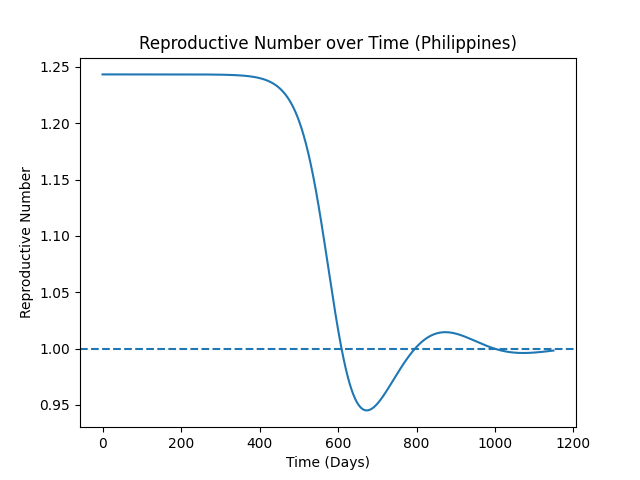
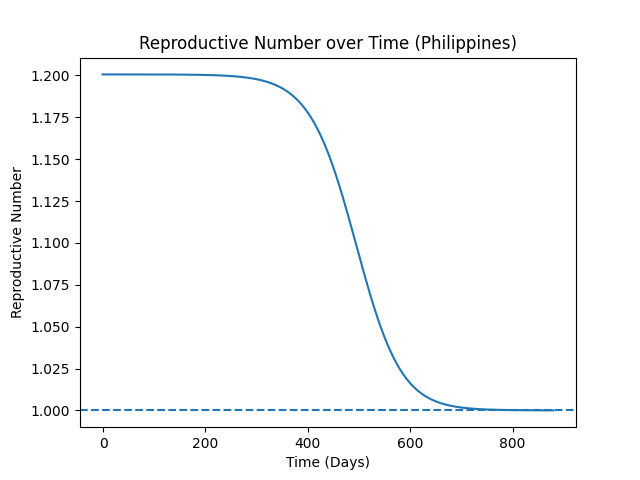
Push latest regression testing

diff --git a/fitting/data_fit.py b/fitting/data_fit.py
@@ -27,7 +27,7 @@ agegroup_lookup = dict(zip(agegroups['Location'], agegroups[['0_9', '10_19', '20
 # parameters
 country = "Philippines"
 country_data = covid_data[covid_data["Location"] == "Philippines"]
-data = country_data["Cumulative_cases"].values
+data = country_data["New_cases"].values
 times = country_data["Date_reported"].values
 plt.title(f'New Cases COVID-19 Data ({country})')
 plt.xlabel(f"Time in Days ({datetime.datetime.utcfromtimestamp(times[0].tolist()/1e9).date()} - {datetime.datetime.utcfromtimestamp(times[-1].tolist()/1e9).date()})")
@@ -35,12 +35,12 @@ plt.ylabel('New Cases')
 plt.plot(data)
 plt.autoscale()
 plt.savefig(rf'fitting//new pics//{country}_new_cases.png')
-# plt.show(block=False)
+plt.show(block=False)
 # data = data[:len(data)//3]
 # start at nth day
 saved_data = data
-data = data[:450]
-times = times[:450]
+data = data[400:700]
+times = times[400:700]
 
 # Moving Average
 # def moving_average(a, n=3) :
@@ -51,8 +51,8 @@ times = times[:450]
 print(len(data))
 data -= data[0] # start cumulative sum at 0
 agegroups = agegroup_lookup["Philippines"]
-outbreak_shift = 25  # shift the outbreak by this many days (negative values are allowed)
-params_init_min_max = {"beta": (0.9, 0.1, 2), "zeta": (1./10, 1./50, 1), "mu": (1./60, 1./300, 1./5)}  # form: {parameter: (initial guess, minimum value, max value)}
+outbreak_shift = 0  # shift the outbreak by this many days (negative values are allowed)
+params_init_min_max = {"beta": (0.9, 0.1, 2), "zeta": (1./10, 1./50, 1),} #"mu": (1./90, 1./300, 1./5)}  # form: {parameter: (initial guess, minimum value, max value)}
      
 
 days = outbreak_shift + len(data)
@@ -77,7 +77,7 @@ def fitter(x, beta, zeta):
     # print(x)
 
     # print()
-    return (phi*exposed).cumsum() # Inflow of Infections aka New Cases
+    return phi*exposed # Inflow of Infections aka New Cases
 
 
 # Fit the model
@@ -86,7 +86,7 @@ mod = lmfit.Model(fitter)
 for kwarg, (init, mini, maxi) in params_init_min_max.items():
     # mod.set_param_hint(str(kwarg), value=init, min=mini, max=maxi, vary=True)
     mod.set_param_hint(str(kwarg), value=init, min=0, vary=True)
-
+    
 params = mod.make_params()
 fit_method = "leastsq"
      
@@ -95,13 +95,14 @@ result = mod.fit(y_data, params, method=fit_method, x=x_data)
      
 plt.figure()
 result.plot_fit(datafmt="-", xlabel=f"Time in Days ({datetime.datetime.utcfromtimestamp(times[0].tolist()/1e9).date()} - {datetime.datetime.utcfromtimestamp(times[-1].tolist()/1e9).date()}) (Outbreak Shift = {outbreak_shift})", ylabel="New Cases", title=f"Fitting SEIQRS Model to {country} COVID-19 Data")
-plt.savefig(rf"fitting//new pics//fit_{country}.png")
+plt.savefig(rf"fitting//matrix//fit_{country}.png")
 print(result.best_values)
-# plt.show(block=True)
+plt.show(block=True)
 
 # Using the fitted parameters to model the future outbreak
 beta = result.best_values["beta"]
 zeta = result.best_values["zeta"]
+mu = result.best_values["mu"]
 t, N, S, E, I, Q, R, r_vals = Model(days+700, agegroups, beta, phi, zeta, gamma, kappa, mu)
 
 # Undo Modelling Outbreak Shift
@@ -134,7 +135,7 @@ plt.xlabel('Time (Days)')
 plt.ylabel('Reproductive Number')
 plt.autoscale()
 plt.savefig(rf'fitting//new pics/{country}_R_plot.png')
-# plt.show(block=False)
+plt.show(block=False)
 
 #Plot Stacked Area Graph
 plt.figure()
@@ -145,7 +146,7 @@ plt.xlabel('Time (Days)')
 plt.ylabel('Amount of Population (People)')
 plt.autoscale()
 plt.savefig(rf'fitting//new pics/{country}_Stack.png')
-# plt.show(block=False)
+plt.show(block=False)
 
 #Plot Line Graph
 plt.figure()
@@ -165,7 +166,7 @@ plt.xlabel('Time (Days)')
 plt.ylabel('Amount of Population (People)')
 plt.autoscale()
 plt.savefig(rf'fitting//new pics/{country}.png')
-# plt.show(block=False)
+plt.show(block=False)
 
 #Plot Cumulative Infections Predicted
 t, N, S, E, I, Q, R, r_vals = Model(len(saved_data)+outbreak_shift, agegroups, beta, phi, zeta, gamma, kappa, mu)
@@ -189,4 +190,4 @@ plt.xlabel('Time (Days)')
 plt.ylabel('New Cases (People)')
 plt.autoscale()
 plt.savefig(rf'fitting//new pics//{country}_predicted_new_cases.png')
-# plt.show()
+plt.show()

diff --git a/seiqrs.py b/seiqrs.py
@@ -6,6 +6,7 @@ from r_plot import r_plot
 from model import deriv
 
 # Test Case
+save = False
 test_case = 'High Population'
 print(f'Test Case: {test_case}')
 
@@ -51,7 +52,20 @@ plt.title(f'Reproductive Number over Time ({test_case})')
 plt.xlabel('Time (Days)')
 plt.ylabel('Reproductive Number')
 plt.autoscale()
-plt.savefig(f'pics\{test_case} Case_R_plot.png')
+if save:
+    plt.savefig(f'pics\{test_case} Case_R_plot.png')
+plt.show(block=False)
+
+# Plot New Cases
+plt.figure()
+plt.plot(t, phi*E, label = "New Cases")
+plt.plot(t, (phi*E).cumsum(), label = "New Cases Cumulative")
+plt.title(f'New Cases over Time ({test_case})')
+plt.xlabel('Time (Days)')
+plt.ylabel('New Cases')
+plt.autoscale()
+if save:
+    plt.savefig(f'pics\{test_case} Case_New_Cases.png')
 plt.show(block=False)
 
 #Plot Stacked Area Graph
@@ -62,7 +76,8 @@ plt.title(f'Stacked SEIQRS States over Time ({test_case} Case)')
 plt.xlabel('Time (Days)')
 plt.ylabel('Amount of Population (People)')
 plt.autoscale()
-plt.savefig(f'pics\{test_case} Case_Stack.png')
+if save:
+    plt.savefig(f'pics\{test_case} Case_Stack.png')
 plt.show(block=False)
 
 #Plot Line Graph
@@ -82,5 +97,6 @@ plt.title(f'SEIQRS State over Time ({test_case} Case)')
 plt.xlabel('Time (Days)')
 plt.ylabel('Amount of Population (People)')
 plt.autoscale()
-plt.savefig(f'pics\{test_case} Case.png')
+if save:
+    plt.savefig(f'pics\{test_case} Case.png')
 plt.show()
